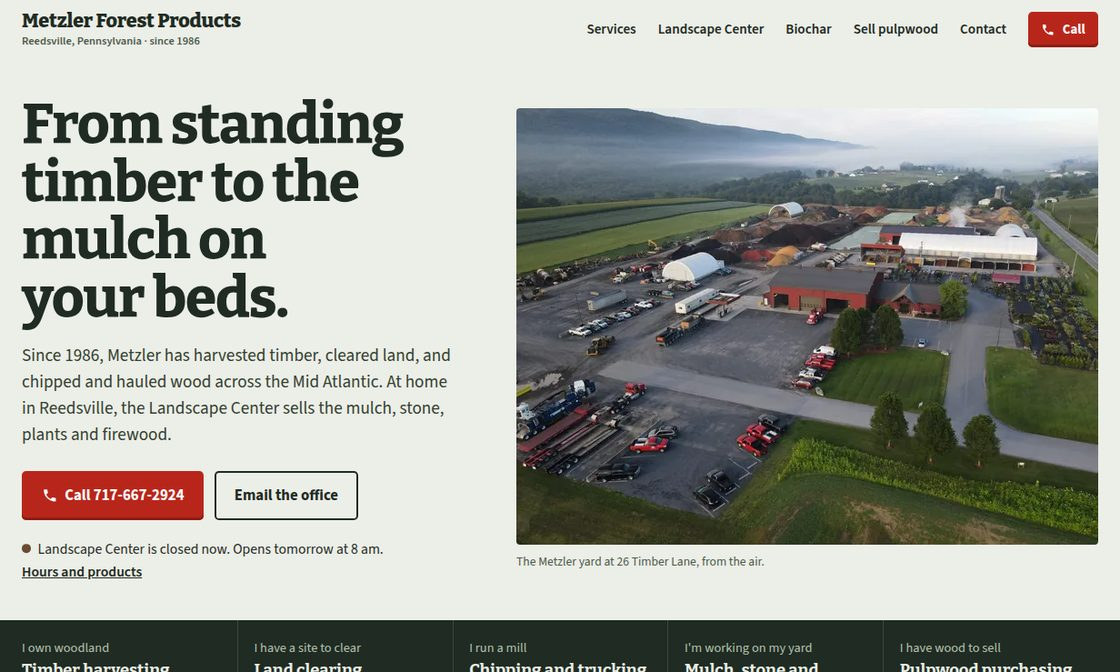
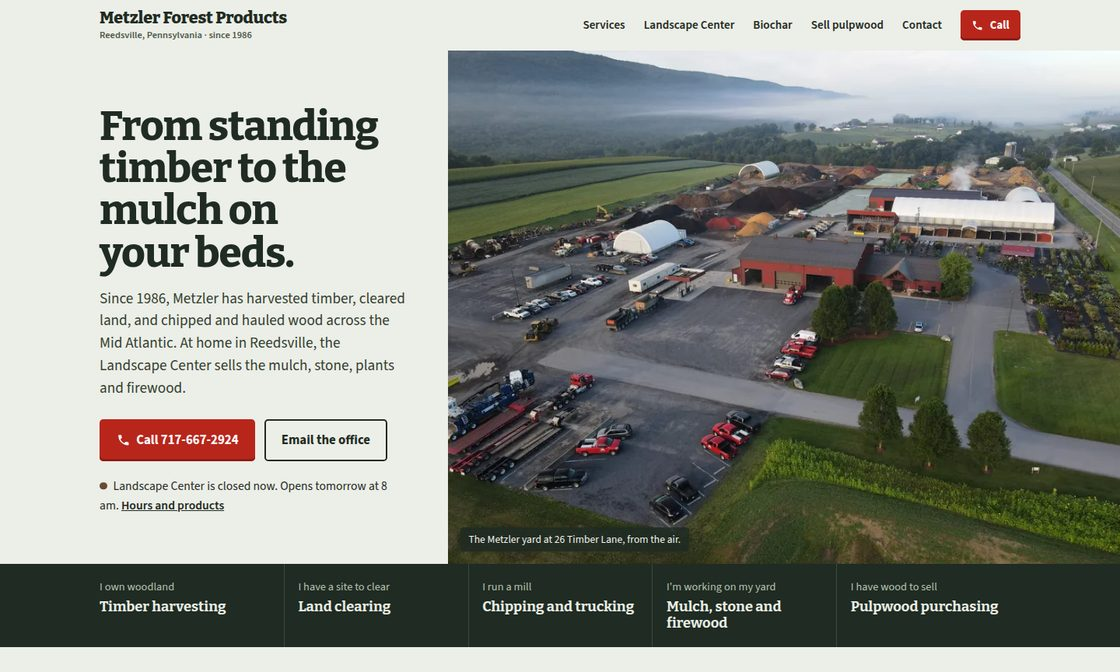
Previews: 11 ativos

diff --git a/metzler-forest-products-reedsville-pa/index.html b/metzler-forest-products-reedsville-pa/index.html
@@ -15,7 +15,7 @@
 <meta property="og:image" content="https://demo.mhstecnologia.com/metzler-forest-products-reedsville-pa/email.jpg">
 <link rel="preload" as="font" type="font/woff2" href="fonts/bitter.woff2" crossorigin>
 <link rel="preload" as="font" type="font/woff2" href="fonts/sourcesans.woff2" crossorigin>
-<link rel="preload" as="image" href="img/yard-640.webp" imagesrcset="img/yard-640.webp 640w, img/yard-800.webp 800w, img/yard-960.webp 960w, img/yard-1400.webp 1400w" imagesizes="(max-width: 900px) 100vw, 640px" fetchpriority="high">
+<link rel="preload" as="image" href="img/yard-640.webp" imagesrcset="img/yard-640.webp 640w, img/yard-960.webp 960w, img/yard-1400.webp 1400w, img/yard-1920.webp 1920w, img/yard-2560.webp 2560w" imagesizes="(max-width: 900px) 100vw, 60vw" fetchpriority="high">
 <style>
   @font-face { font-family: "Bitter"; font-weight: 100 900; font-display: swap; src: url(fonts/bitter.woff2) format("woff2"); }
   @font-face { font-family: "Source Sans 3"; font-weight: 200 900; font-display: swap; src: url(fonts/sourcesans.woff2) format("woff2"); }
@@ -54,10 +54,11 @@
   .skip { position: absolute; left: -999px; top: .5rem; background: #fff; padding: .5rem 1rem; z-index: 10; }
   .skip:focus { left: .5rem; }
   .wrap { max-width: calc(var(--max) + 2 * var(--pad)); margin: 0 auto; padding: 0 var(--pad); }
-  .num { font-variant-numeric: tabular-nums; }
+  .num { font-variant-numeric: tabular-nums; white-space: nowrap; }
   .muted { color: var(--moss); }
 
   .demo { background: var(--hemlock); color: #cfd6c8; font-size: .8125rem; line-height: 1.35; text-align: center; padding: .45rem 1rem; }
+  @media (max-width: 900px) { .demo { font-size: .72rem; line-height: 1.3; padding: .35rem .75rem; } }
 
   header.wrap { display: flex; justify-content: space-between; align-items: center; gap: 1rem; padding-top: .8rem; padding-bottom: .8rem; }
   .mark { text-decoration: none; font-family: "Bitter", serif; font-weight: 800; font-size: 1.35rem; line-height: 1; letter-spacing: -0.01em; white-space: nowrap; }
@@ -74,12 +75,15 @@
   .btn svg { width: 1.05em; height: 1.05em; flex: none; }
 
   /* Hero: words left, their own aerial of the yard right, framed no wider than the photo stays sharp. */
-  .hero { display: grid; grid-template-columns: minmax(0, 1fr) minmax(0, 640px); gap: clamp(1.5rem, 4vw, 4rem); align-items: center; padding-top: clamp(1rem, 3vw, 2.5rem); padding-bottom: clamp(1.5rem, 3vw, 2.5rem); }
+  /* Desktop: their 2560px aerial runs from 40% of the window to its right edge. */
+  .hero { display: grid; grid-template-columns: minmax(0, 40fr) minmax(0, 60fr); align-items: stretch; }
+  .hero-copy { align-self: center; padding: clamp(2rem, 4vw, 3.5rem) clamp(1.5rem, 3.5vw, 3.5rem) clamp(2rem, 4vw, 3rem) max(var(--pad), calc((100vw - var(--max)) / 2)); }
+  .hero h1 { font-size: clamp(2.15rem, 3.7vw, 3.6rem); }
   .lede { font-size: 1.2rem; line-height: 1.5; margin-top: 1.1rem; color: #33402f; }
   .actions { display: flex; flex-wrap: wrap; gap: .75rem; margin-top: 1.6rem; }
-  .shot { margin: 0; }
-  .shot img { width: 100%; aspect-ratio: 4 / 3; object-fit: cover; border-radius: .25rem; }
-  .shot figcaption { font-size: .85rem; color: var(--moss); margin-top: .5rem; }
+  .shot { margin: 0; position: relative; }
+  .shot img { width: 100%; height: 100%; min-height: clamp(32rem, calc(100vh - 15rem), 46rem); object-fit: cover; object-position: 50% 45%; }
+  .shot figcaption { position: absolute; left: 1rem; bottom: 1rem; background: rgba(31, 43, 35, .82); color: #eef1ea; font-size: .85rem; padding: .3rem .65rem; border-radius: .2rem; }
 
   .lc-status { margin-top: 1.25rem; font-size: .98rem; }
   .lc-status a { white-space: nowrap; }
@@ -102,7 +106,9 @@
   section { padding: clamp(3rem, 7vw, 6rem) 0; }
   #services { padding-top: clamp(2.5rem, 4vw, 3.25rem); }
   .intro { max-width: 46rem; }
-  .intro p { margin-top: .9rem; font-size: 1.12rem; }
+  .intro p, .lc-lede { margin-top: .9rem; font-size: 1.12rem; }
+  .harvest-lede { margin-top: .4rem; }
+  .pulp-lede { margin-top: .9rem; }
 
   /* Timber harvesting: the one real sequence on the page, so it gets numbers. */
   .harvest { display: grid; grid-template-columns: minmax(0, 5fr) minmax(0, 6fr); gap: clamp(1.5rem, 4vw, 4rem); margin-top: 2.5rem; align-items: start; }
@@ -156,8 +162,12 @@
   .cuts li { border: 1.5px solid var(--bark); color: var(--bark); border-radius: 2rem; padding: .2rem .8rem; font-weight: 600; font-size: .95rem; }
   .fire .actions { margin-top: 1.3rem; }
 
-  .bulk { margin-top: clamp(2.5rem, 5vw, 3.5rem); border-top: 2px solid var(--hemlock); padding-top: 1.4rem; display: grid; grid-template-columns: minmax(0, 4fr) minmax(0, 7fr); gap: clamp(1rem, 4vw, 3.5rem); }
-  .bulk h3 { font-size: 1.25rem; }
+  .bulk { margin-top: clamp(3rem, 6vw, 4.5rem); display: grid; grid-template-columns: minmax(0, 6fr) minmax(0, 5fr); gap: clamp(1.5rem, 4vw, 3.5rem); align-items: center; }
+  .bulk img { border-radius: .25rem; width: 100%; aspect-ratio: 3 / 2; object-fit: cover; }
+  .bulk p { margin-top: .7rem; }
+  .bulk-list { list-style: none; padding: 0; margin-top: 1rem; display: grid; grid-template-columns: 1fr 1fr; gap: 0 1.25rem; }
+  .bulk-list li { padding: .45rem 0; border-top: 1px solid var(--line); font-weight: 600; }
+  .bulk .actions { margin-top: 1.2rem; }
 
   /* Biochar: the char itself sets the color. */
   .char { background: var(--char); color: #ece6de; }
@@ -204,10 +214,8 @@
   .specs th { font-weight: 700; }
   .specs .note { font-size: .95rem; margin-top: .8rem; }
 
-  .crew { display: grid; grid-template-columns: minmax(0, 7fr) minmax(0, 5fr); gap: clamp(1.5rem, 4vw, 3.5rem); align-items: center; }
-  .crew img { border-radius: .25rem; width: 100%; aspect-ratio: 16 / 10; object-fit: cover; object-position: 50% 70%; }
-  .crew p { margin-top: .8rem; }
-  .crew .actions { margin-top: 1.2rem; }
+  .safety.careers { margin-top: 2rem; }
+  .careers .btn { margin-top: 1rem; }
 
   /* Contact: the right inbox for each kind of job. */
   .contact { background: var(--hemlock); color: #e9ede4; }
@@ -217,7 +225,7 @@
   .desk h3 { font-size: 1.2rem; color: #fff; }
   .desk p { margin-top: .4rem; color: #c8d2c0; font-size: 1rem; }
   .desk a { display: block; font-weight: 700; margin-top: .45rem; color: #fff; text-underline-offset: 3px; }
-  .desk a.ph { font-size: 1.3rem; font-family: "Bitter", serif; }
+  .desk a.ph { font-size: 1.3rem; font-family: "Bitter", serif; white-space: nowrap; }
   .where { margin-top: 2.5rem; display: flex; flex-wrap: wrap; gap: .5rem 2rem; color: #c8d2c0; }
   .where address { font-style: normal; color: #e9ede4; }
   .where a { color: #fff; font-weight: 600; }
@@ -238,36 +246,43 @@
   @media (max-width: 900px) {
     header nav .hide-m { display: none; }
     .mark { font-size: 1.2rem; }
-    .hero { grid-template-columns: 1fr; padding-top: 0; gap: 1rem; }
-    .shot { order: -1; margin: 0 calc(-1 * var(--pad)); }
-    .shot img { aspect-ratio: 39 / 19; border-radius: 0; object-position: 50% 40%; }
-    .shot figcaption { padding: 0 var(--pad); }
-    .lede { font-size: 1.08rem; margin-top: .7rem; }
-    .actions { margin-top: 1.1rem; }
-    .hero .actions .btn { flex: 1 1 auto; }
-    .lc-status { margin-top: .8rem; font-size: .95rem; }
+    .hide-m { display: none; }
+    .hero { grid-template-columns: 1fr; }
+    .hero-copy { padding: .9rem var(--pad) 1rem; }
+    .shot { order: -1; }
+    .shot img { min-height: 0; aspect-ratio: 39 / 17; object-position: 50% 40%; }
+    .shot figcaption { display: none; }
+    .lede { font-size: 1.05rem; margin-top: .6rem; }
+    .actions { margin-top: 1rem; }
+    .hero .actions { flex-wrap: nowrap; gap: .6rem; }
+    .hero .actions .btn { flex: 1 1 auto; padding-left: .9rem; padding-right: .9rem; }
+    .hero .actions .btn.quiet { flex: 0 0 auto; }
+    .lc-status { margin-top: .7rem; font-size: .92rem; line-height: 1.4; }
 
-    .doors ul { grid-template-columns: 1fr; }
-    .doors li + li { border-left: 0; border-top: 1px solid #3b4a3f; }
-    .doors a { padding: .85rem 0; display: grid; grid-template-columns: 1fr auto; align-items: baseline; gap: 0 1rem; }
-    .doors .what { margin-top: 0; grid-row: 1; grid-column: 1; }
-    .doors .who { grid-row: 2; grid-column: 1; }
+    .doors ul { grid-template-columns: 1fr 1fr; gap: .5rem; padding-top: .75rem; padding-bottom: .75rem; }
+    .doors li + li, .doors li:nth-child(n + 4) { border: 0; }
+    .doors li:last-child { grid-column: 1 / -1; }
+    .doors a, .doors li:first-child a, .doors li:nth-child(4) a { padding: .5rem .7rem .55rem; border-radius: .3rem; background: #2c3b31; }
+    .doors .who { font-size: .78rem; line-height: 1.25; }
+    .doors .what { font-size: 1rem; margin-top: .1rem; }
 
-    .harvest, .jobs, .lc-grid, .mulch, .fire, .bulk, .char-grid, .rings-sec, .safety, .pulp-grid, .crew, .contact-grid { grid-template-columns: 1fr; }
+    .harvest, .jobs, .lc-grid, .mulch, .fire, .bulk, .char-grid, .rings-sec, .safety, .pulp-grid, .contact-grid { grid-template-columns: 1fr; }
     .harvest img { aspect-ratio: 3 / 2; }
     .pulp img { aspect-ratio: 3 / 2; }
     .swatches { grid-template-columns: repeat(4, 1fr); gap: .6rem .5rem; }
     .swatches span { font-size: .8rem; }
+    .lc-photos { grid-template-columns: 1fr; }
     .stock { column-gap: 1rem; font-size: .95rem; padding-left: 1rem; }
     .cookie { max-width: 22rem; margin: 0 auto; }
     .loads { aspect-ratio: auto; min-height: 11rem; }
 
     .dock { display: flex; position: fixed; left: .75rem; right: .75rem; bottom: calc(.75rem + env(safe-area-inset-bottom)); z-index: 5; gap: .5rem;
-      opacity: 0; transform: translateY(1rem); pointer-events: none; transition: opacity .2s ease, transform .2s ease; }
+      visibility: hidden; opacity: 0; transform: translateY(1rem); pointer-events: none; transition: opacity .2s ease, transform .2s ease, visibility .2s; }
+    body.dock-on { padding-bottom: calc(4.5rem + env(safe-area-inset-bottom)); }
+    .btn.small { min-height: 44px; }
     .dock .btn { flex: 1; box-shadow: inset 0 -3px 0 var(--red-deep), 0 8px 24px rgba(0, 0, 0, .25); padding: .8rem .6rem; font-size: 1rem; }
     .dock .btn.alt { background: var(--hemlock); box-shadow: 0 8px 24px rgba(0, 0, 0, .25); }
-    .dock.on { opacity: 1; transform: none; pointer-events: auto; }
-    footer { padding-bottom: 5.5rem; }
+    .dock.on { visibility: visible; opacity: 1; transform: none; pointer-events: auto; }
   }
   @media (max-width: 420px) {
     .swatches { grid-template-columns: repeat(4, 1fr); }
@@ -307,18 +322,18 @@
   </header>
 
   <main id="main">
-    <div class="hero wrap">
-      <div>
+    <div class="hero">
+      <div class="hero-copy">
         <h1>From standing timber to the mulch on your beds.</h1>
-        <p class="lede">Since 1986, Metzler has harvested timber, cleared land, and chipped and hauled wood across the Mid Atlantic. At home in Reedsville, the Landscape Center sells the mulch, stone, plants and firewood.</p>
+        <p class="lede">Since 1986, Metzler has harvested timber, cleared land, and chipped and hauled wood across the Mid Atlantic.<span class="hide-m"> At home in Reedsville, the Landscape Center sells the mulch, stone, plants and firewood.</span></p>
         <div class="actions">
           <a class="btn" data-cta href="tel:+17176672924"><svg viewBox="0 0 24 24" aria-hidden="true"><path fill="currentColor" d="M6.6 10.8a15.1 15.1 0 0 0 6.6 6.6l2.2-2.2a1 1 0 0 1 1-.25 11.4 11.4 0 0 0 3.6.57 1 1 0 0 1 1 1V20a1 1 0 0 1-1 1A17 17 0 0 1 3 4a1 1 0 0 1 1-1h3.5a1 1 0 0 1 1 1c0 1.25.2 2.45.57 3.57a1 1 0 0 1-.25 1z"/></svg><span class="num">Call 717-667-2924</span></a>
-          <a class="btn quiet" href="mailto:info@metzlerfp.com?subject=Project%20inquiry&amp;body=Hi%20Metzler%20team%2C%0A%0AWhat%20I%20need%20help%20with%3A%20%0AWhere%20the%20job%20is%20(town%20or%20county)%3A%20%0ABest%20phone%20number%3A%20%0A">Email the office</a>
+          <a class="btn quiet" href="mailto:info@metzlerfp.com?subject=Project%20inquiry&amp;body=Hi%20Metzler%20team%2C%0A%0AWhat%20I%20need%20help%20with%3A%20%0AWhere%20the%20job%20is%20(town%20or%20county)%3A%20%0ABest%20phone%20number%3A%20%0A"><span>Email<span class="hide-m"> the office</span></span></a>
         </div>
         <p class="lc-status" data-status><span class="dot" aria-hidden="true"></span><span data-status-text>Landscape Center: Mon–Fri 8–5, Sat 8–1.</span> <a href="#landscape">Hours and products</a></p>
       </div>
       <figure class="shot">
-        <img src="img/yard-640.webp" srcset="img/yard-640.webp 640w, img/yard-800.webp 800w, img/yard-960.webp 960w, img/yard-1400.webp 1400w" sizes="(max-width: 900px) 100vw, 640px" width="1400" height="1050" alt="Aerial view of the Metzler yard in a misty valley: mulch piles, log trucks, a white storage dome and red-roofed buildings beside farm fields" fetchpriority="high">
+        <img src="img/yard-960.webp" srcset="img/yard-640.webp 640w, img/yard-960.webp 960w, img/yard-1400.webp 1400w, img/yard-1920.webp 1920w, img/yard-2560.webp 2560w" sizes="(max-width: 900px) 100vw, 60vw" width="2560" height="1920" alt="Aerial view of the Metzler yard in a misty valley: mulch piles, log trucks, a white storage dome and red-roofed buildings beside farm fields" fetchpriority="high">
         <figcaption>The Metzler yard at 26 Timber Lane, from the air.</figcaption>
       </figure>
     </div>
@@ -344,7 +359,7 @@
           <img src="img/harvest-600.webp" srcset="img/harvest-600.webp 600w, img/harvest-800.webp 800w, img/harvest-1000.webp 1000w" sizes="(max-width: 900px) calc(100vw - 2rem), 500px" width="1000" height="1000" alt="A red tracked harvester cutting a tree in the woods, with felled logs at its base" loading="lazy">
           <div>
             <h3>Timber harvesting</h3>
-            <p class="muted" style="margin-top:.4rem">For landowners who want to monetize the timber on their property, Metzler's professional foresters build a plan around your goals, for value, wildlife and recreation.</p>
+            <p class="muted harvest-lede">For landowners who want to monetize the timber on their property, Metzler's professional foresters build a plan around your goals, for value, wildlife and recreation.</p>
             <ol class="steps">
               <li><span><b>Meet on site</b>Talk through your goals for the timber and how the process works.</span></li>
               <li><span><b>Cruise the land</b>Foresters measure the species, health and quantity of the timber.</span></li>
@@ -386,7 +401,7 @@
         <div class="lc-grid">
           <div>
             <h2>The Landscape Center, open six days a week</h2>
-            <p style="margin-top:.9rem;font-size:1.12rem">Annuals, perennials, trees, shrubs and evergreens, with the topsoil, compost, mulch, stone and sand to put them in. Do it yourself, or have the team help with estimating, loading and delivery.</p>
+            <p class="lc-lede">Annuals, perennials, trees, shrubs and evergreens, with the topsoil, compost, mulch, stone and sand to put them in. Do it yourself, or have the team help with estimating, loading and delivery.</p>
             <ul class="stock">
               <li>Mulch, topsoil and compost</li>
               <li>Firewood</li>
@@ -454,8 +469,19 @@
         </div>
 
         <div class="bulk">
-          <h3>Contractors: buy it by the load</h3>
-          <p>Firewood, natural-fiber mulch, premium topsoil, compost, certified playground material and aged erosion control filter sock material, for commercial projects of every size. Pick up in Reedsville or have it delivered to your job site.</p>
+          <img src="img/grinders-600.webp" srcset="img/grinders-600.webp 600w, img/grinders-1000.webp 1000w, img/grinders-1400.webp 1400w" sizes="(max-width: 900px) calc(100vw - 2rem), 560px" width="1400" height="1139" alt="Three orange horizontal grinders working at the foot of a huge pile of ground wood" loading="lazy">
+          <div>
+            <h3>Contractors: buy it by the load</h3>
+            <p>Bulk products for commercial projects of every size, from companies throughout Pennsylvania and the surrounding regions.</p>
+            <ul class="bulk-list">
+              <li>Firewood</li><li>Natural-fiber mulch</li><li>Premium topsoil</li><li>Compost</li><li>Certified playground material</li><li>Erosion control filter sock material</li>
+            </ul>
+            <p>Pick up in Reedsville, or have it delivered straight to your job site.</p>
+            <div class="actions">
+              <a class="btn" href="tel:+17176672924"><span class="num">Call 717-667-2924</span></a>
+              <a class="btn quiet" href="mailto:info@metzlerfp.com?subject=Bulk%20order%20for%20a%20job%20site&amp;body=Hi%20Metzler%20team%2C%0A%0AProduct%3A%20%0AQuantity%3A%20%0AJob%20site%20address%3A%20%0ANeeded%20by%3A%20%0ABest%20phone%20number%3A%20%0A">Email a bulk order</a>
+            </div>
+          </div>
         </div>
       </div>
     </section>
@@ -522,6 +548,13 @@
             </ul>
           </div>
         </div>
+        <div class="safety careers">
+          <h3>Build your career at Metzler</h3>
+          <div>
+            <p>Metzler is looking for people who take pride in their work and never settle for less than a job well done: a team-oriented company focused on safety and quality, with competitive salaries and benefits.</p>
+            <a class="btn quiet" href="https://www.metzlerforestproducts.com/careers/">See open positions</a>
+          </div>
+        </div>
       </div>
     </section>
 
@@ -530,7 +563,7 @@
         <img src="img/logs-600.webp" srcset="img/logs-600.webp 600w, img/logs-1000.webp 1000w" sizes="(max-width: 900px) calc(100vw - 2rem), 500px" width="1000" height="1000" alt="Hardwood pulpwood logs in the grapple of a loader at the Reedsville yard" loading="lazy">
         <div>
           <h2>Bringing in pulpwood?</h2>
-          <p style="margin-top:.9rem">Metzler buys pulpwood and firewood poles at the Reedsville yard. Call 717-667-2924 for current species and pricing, and call before your first load.</p>
+          <p class="pulp-lede">Metzler buys pulpwood and firewood poles at the Reedsville yard. Call 717-667-2924 for current species and pricing, and call before your first load.</p>
           <ul class="facts">
             <li>Unattended scale for pulpwood deliveries</li>
             <li>Trained staff and quick truck turnaround</li>
@@ -550,19 +583,6 @@
           </details>
           <div class="actions">
             <a class="btn" href="tel:+17176672924"><span class="num">Call 717-667-2924</span></a>
-          </div>
-        </div>
-      </div>
-    </section>
-
-    <section>
-      <div class="wrap crew">
-        <img src="img/grinders-600.webp" srcset="img/grinders-600.webp 600w, img/grinders-1000.webp 1000w, img/grinders-1400.webp 1400w" sizes="(max-width: 900px) calc(100vw - 2rem), 640px" width="1400" height="1139" alt="Three orange horizontal grinders working at the foot of a huge pile of ground wood" loading="lazy">
-        <div>
-          <h2>Build your career at Metzler</h2>
-          <p>Metzler is looking for people who take pride in their work and never settle for less than a job well done. A team-oriented company focused on safety and quality, with competitive salaries and benefits.</p>
-          <div class="actions">
-            <a class="btn quiet" href="https://www.metzlerforestproducts.com/careers/">See open positions</a>
           </div>
         </div>
       </div>
@@ -597,10 +617,10 @@
     </section>
   </main>
 
-  <div class="dock">
-    <a class="btn" href="tel:+17176672924">Call office</a>
-    <a class="btn alt" href="tel:+17176673600">Landscape Center</a>
-  </div>
+  <nav class="dock" aria-label="Call">
+    <a class="btn" href="tel:+17176672924" aria-label="Call the Metzler office, 717-667-2924">Call office</a>
+    <a class="btn alt" href="tel:+17176673600" aria-label="Call the Landscape Center, 717-667-3600">Landscape Center</a>
+  </nav>
 
   <footer>
     <p>Unofficial demo built by MHS Tecnologia, not affiliated with or endorsed by Metzler Forest Products. Content and photos come from Metzler Forest Products' public websites. Removed on request: <a href="mailto:contato@mhstecnologia.com.br">contato@mhstecnologia.com.br</a>.</p>
@@ -631,7 +651,7 @@
         el.classList.add(open ? 'open' : 'closed')
         el.querySelector('[data-status-text]').textContent = text
       })
-      document.querySelectorAll('tr[data-days]').forEach((tr) => { if (tr.dataset.days.split(',').includes(String(day))) tr.classList.add('today') })
+      document.querySelectorAll('tr[data-days]').forEach((tr) => { if (tr.dataset.days.split(',').includes(String(day))) { tr.classList.add('today'); tr.setAttribute('aria-current', 'date') } })
     })()
 
     // Forty rings, one per year since 1986. Slightly irregular, like a real cookie cut from a log.
@@ -671,7 +691,10 @@
     // Phones: the call buttons dock once the hero is scrolled past; the wood specs start closed.
     if (matchMedia('(max-width: 900px)').matches) document.querySelector('.specs').open = false
     const dock = document.querySelector('.dock')
-    new IntersectionObserver(([e]) => dock.classList.toggle('on', !e.isIntersecting)).observe(document.querySelector('.hero'))
+    new IntersectionObserver(([e]) => {
+      dock.classList.toggle('on', !e.isIntersecting)
+      document.body.classList.toggle('dock-on', !e.isIntersecting)
+    }).observe(document.querySelector('.hero .actions'))
   </script>
 </body>
 </html>
